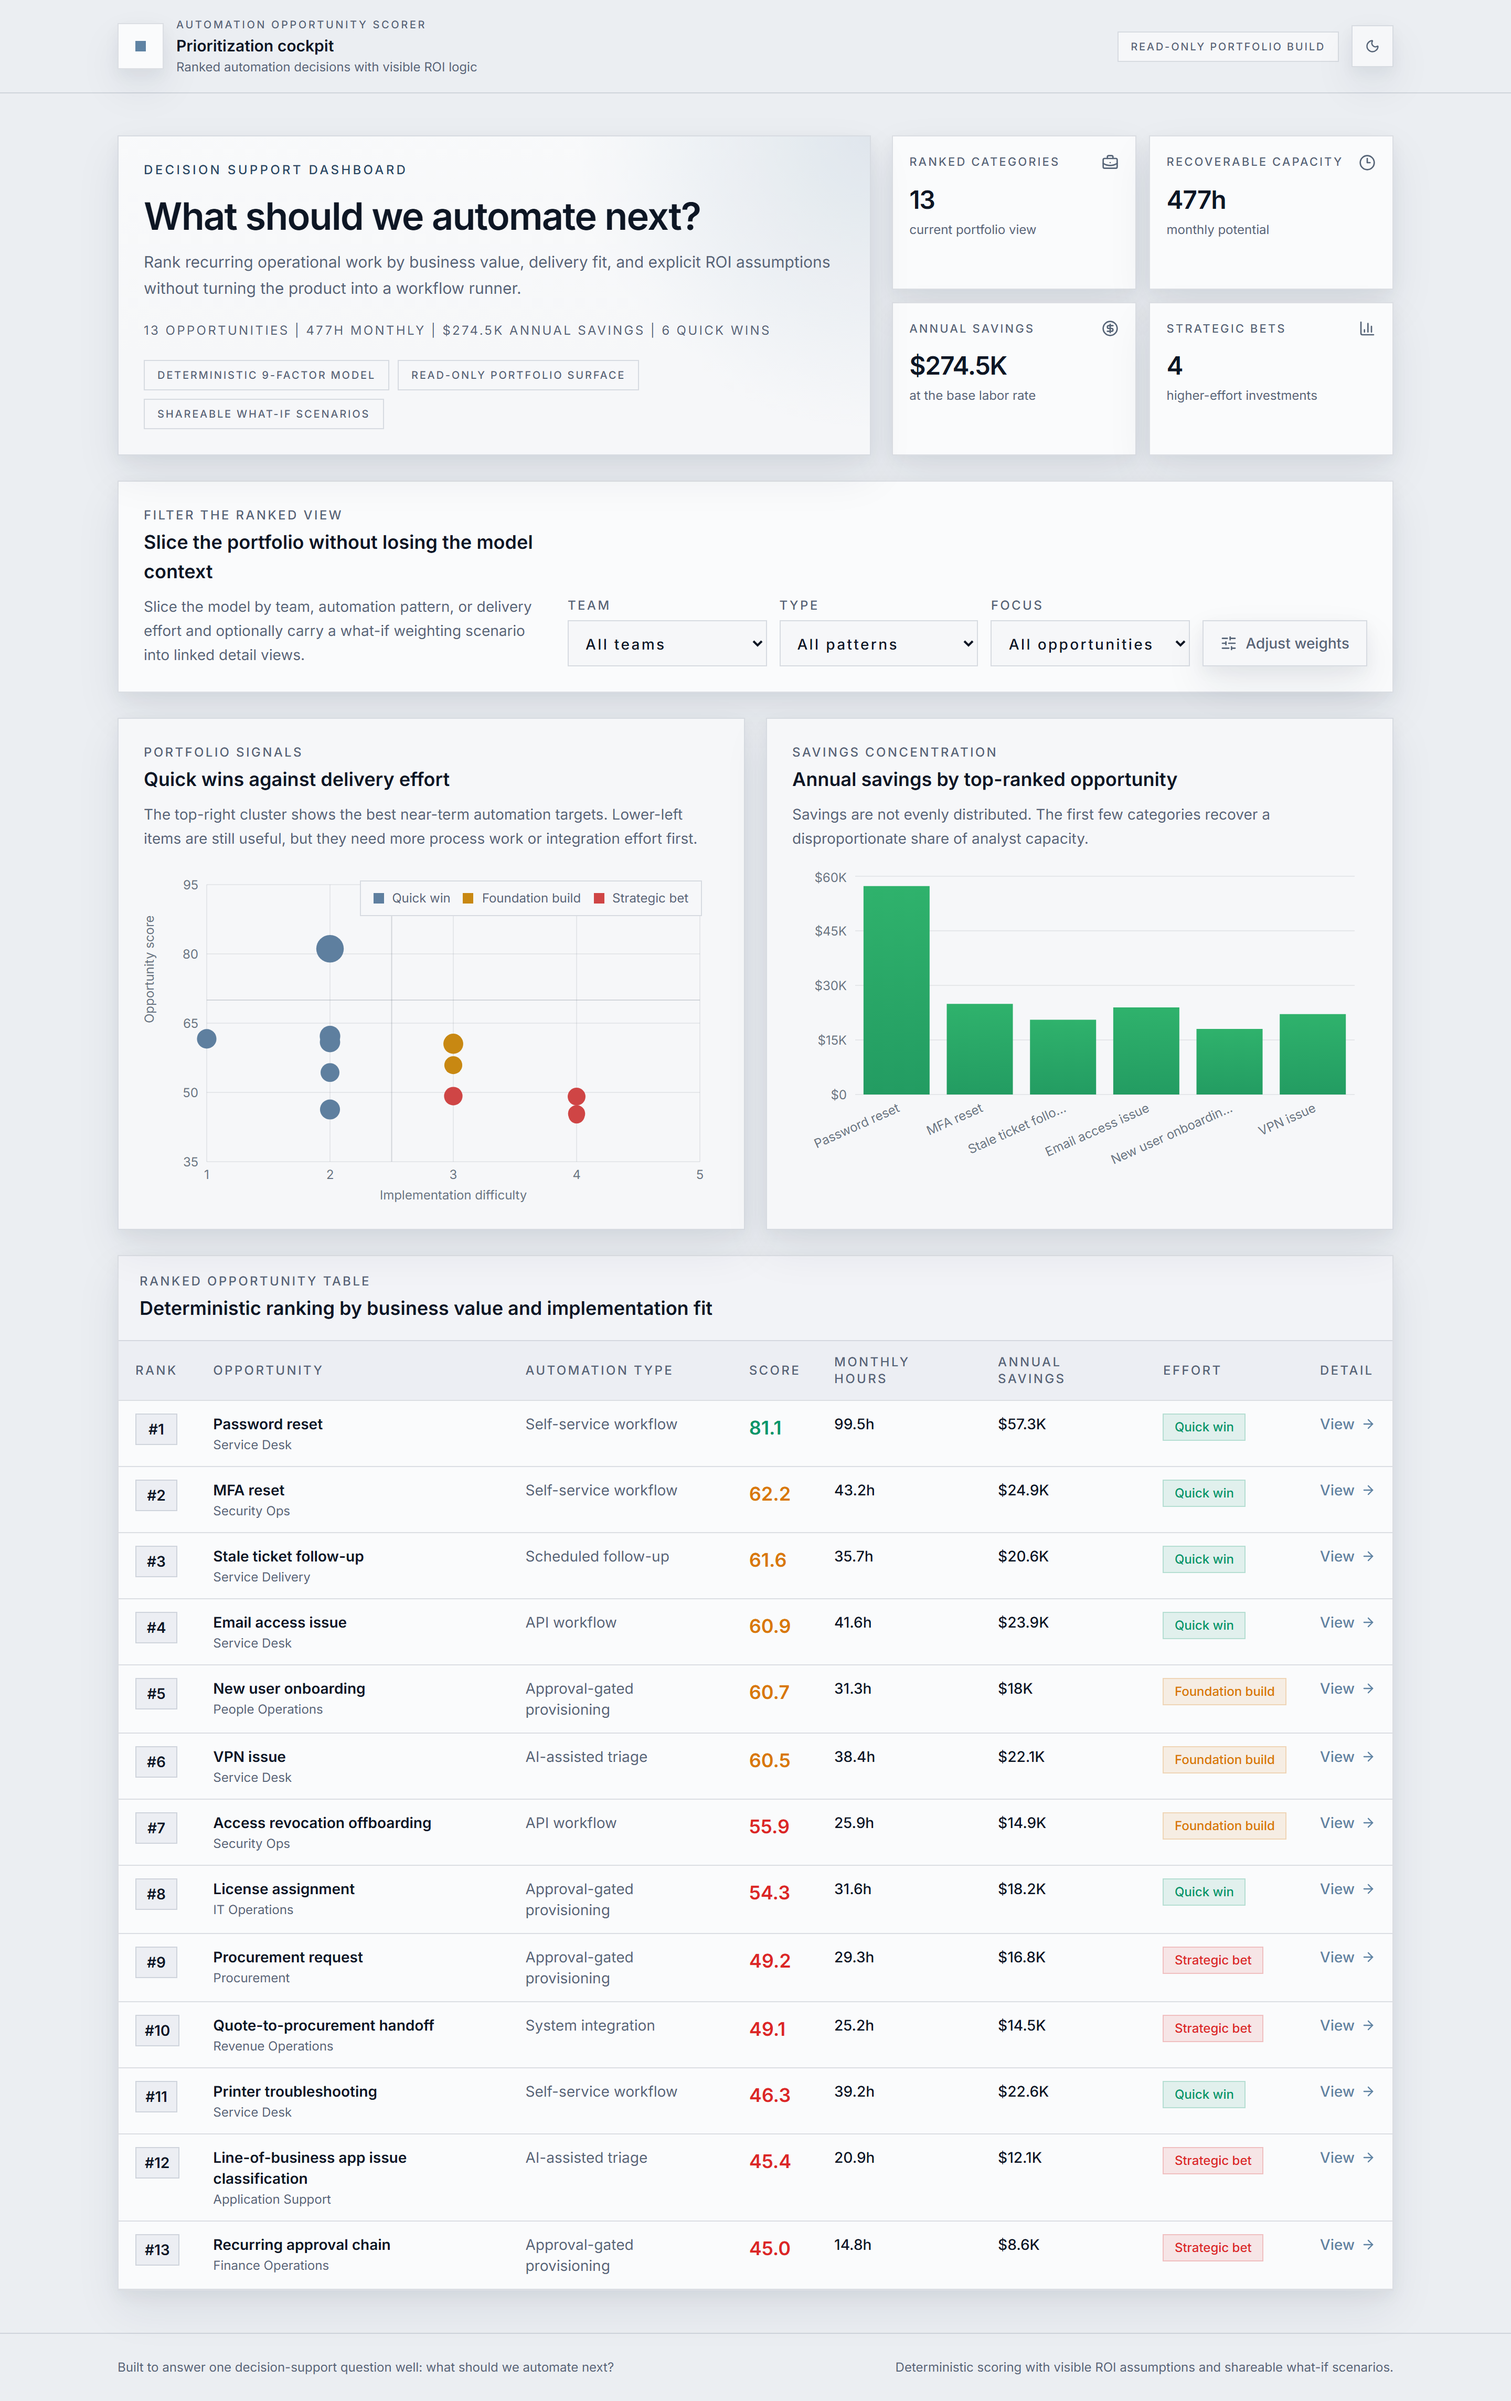
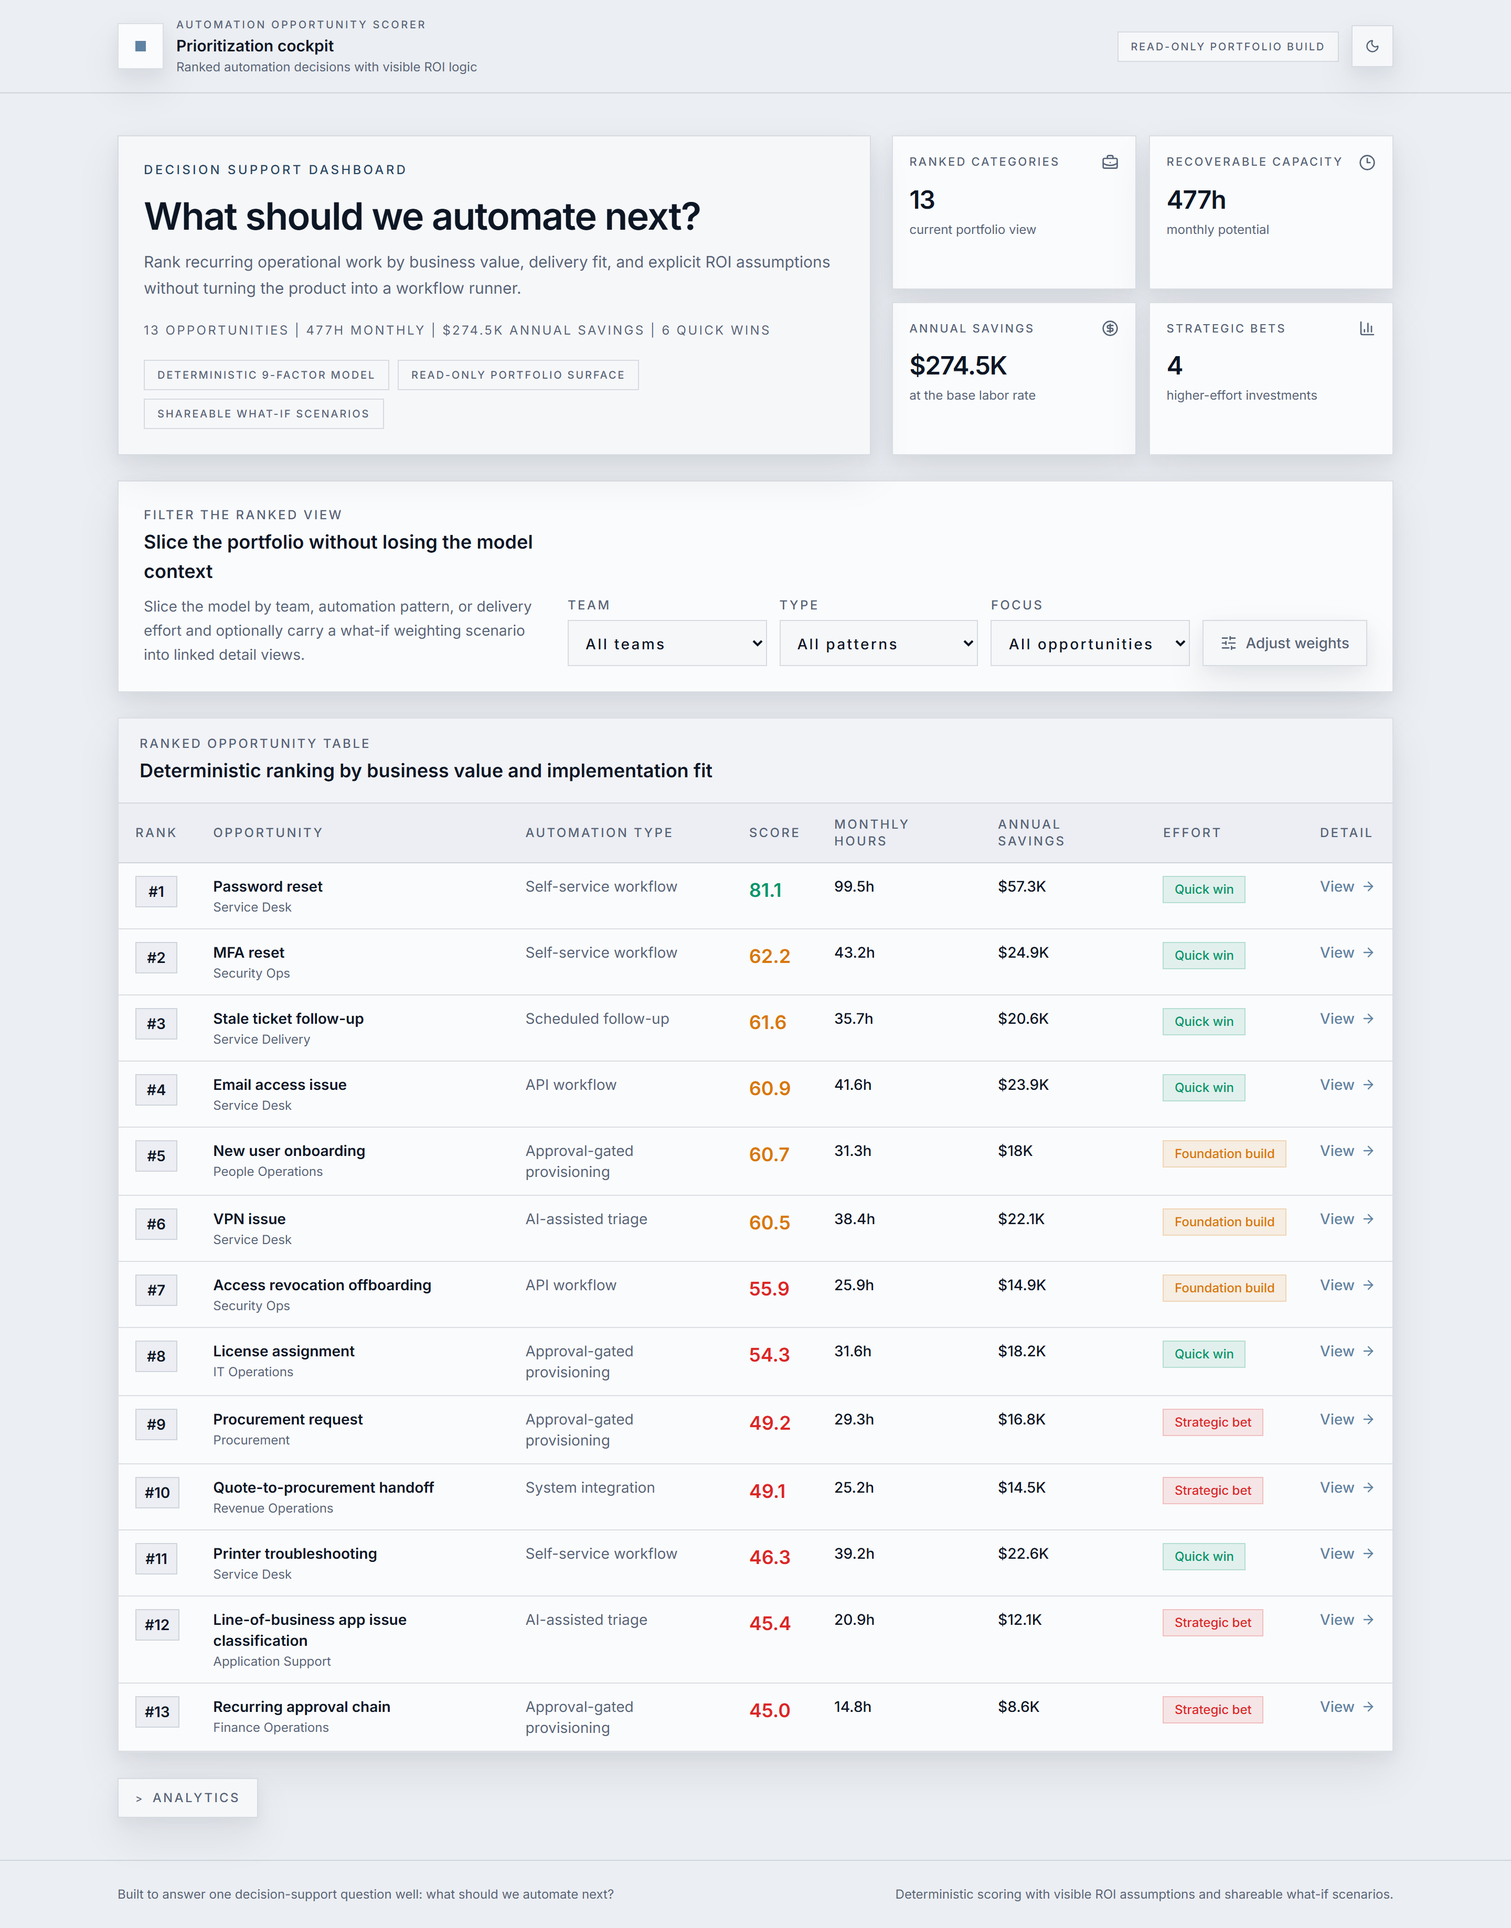
fix: move table above charts in collapsible section, solidify dark mode surfaces, remove unused ambient tokens

diff --git a/src/components/dashboard/dashboard-client.tsx b/src/components/dashboard/dashboard-client.tsx
@@ -241,45 +241,53 @@ export function DashboardClient({
 
           {data.opportunities.length > 0 ? (
             <>
-              <section className="grid gap-5 xl:grid-cols-2">
-                <SurfaceCard className="min-w-0">
-                  <p className="text-xs font-medium uppercase tracking-[0.14em] text-muted-foreground">
-                    Portfolio signals
-                  </p>
-                  <h2 className="mt-1 text-lg font-semibold text-foreground">
-                    Quick wins against delivery effort
-                  </h2>
-                  <p className="mt-2 max-w-xl text-sm leading-relaxed text-muted-foreground">
-                    The top-right cluster shows the best near-term automation
-                    targets. Lower-left items are still useful, but they need
-                    more process work or integration effort first.
-                  </p>
-                  <div className="mt-4 min-w-0">
-                    <ValueVsEffortChart data={data.charts.valueVsEffort} />
-                  </div>
-                </SurfaceCard>
-
-                <SurfaceCard className="min-w-0">
-                  <p className="text-xs font-medium uppercase tracking-[0.14em] text-muted-foreground">
-                    Savings concentration
-                  </p>
-                  <h2 className="mt-1 text-lg font-semibold text-foreground">
-                    Annual savings by top-ranked opportunity
-                  </h2>
-                  <p className="mt-2 max-w-xl text-sm leading-relaxed text-muted-foreground">
-                    Savings are not evenly distributed. The first few categories
-                    recover a disproportionate share of analyst capacity.
-                  </p>
-                  <div className="mt-4 min-w-0">
-                    <SavingsBarChart data={data.charts.savingsByOpportunity} />
-                  </div>
-                </SurfaceCard>
-              </section>
-
               <OpportunityTable
                 opportunities={data.opportunities}
                 detailQuery={detailQuery}
               />
+
+              <details className="group">
+                <summary className="inline-flex list-none cursor-pointer items-center gap-2 border border-line bg-surface px-4 py-2.5 text-xs font-medium uppercase tracking-[0.14em] text-muted-foreground shadow-card hover:text-foreground [&::-webkit-details-marker]:hidden">
+                  <span className="text-[10px] transition-transform group-open:rotate-90">
+                    {">"}
+                  </span>
+                  Analytics
+                </summary>
+                <div className="mt-5 grid gap-5 xl:grid-cols-2">
+                  <SurfaceCard className="min-w-0">
+                    <p className="text-xs font-medium uppercase tracking-[0.14em] text-muted-foreground">
+                      Portfolio signals
+                    </p>
+                    <h2 className="mt-1 text-lg font-semibold text-foreground">
+                      Quick wins against delivery effort
+                    </h2>
+                    <p className="mt-2 max-w-xl text-sm leading-relaxed text-muted-foreground">
+                      The top-right cluster shows the best near-term automation
+                      targets. Lower-left items are still useful, but they need
+                      more process work or integration effort first.
+                    </p>
+                    <div className="mt-4 min-w-0">
+                      <ValueVsEffortChart data={data.charts.valueVsEffort} />
+                    </div>
+                  </SurfaceCard>
+
+                  <SurfaceCard className="min-w-0">
+                    <p className="text-xs font-medium uppercase tracking-[0.14em] text-muted-foreground">
+                      Savings concentration
+                    </p>
+                    <h2 className="mt-1 text-lg font-semibold text-foreground">
+                      Annual savings by top-ranked opportunity
+                    </h2>
+                    <p className="mt-2 max-w-xl text-sm leading-relaxed text-muted-foreground">
+                      Savings are not evenly distributed. The first few categories
+                      recover a disproportionate share of analyst capacity.
+                    </p>
+                    <div className="mt-4 min-w-0">
+                      <SavingsBarChart data={data.charts.savingsByOpportunity} />
+                    </div>
+                  </SurfaceCard>
+                </div>
+              </details>
             </>
           ) : (
             <SurfaceCard className="text-center">

diff --git a/src/app/globals.css b/src/app/globals.css
@@ -13,8 +13,6 @@
   --accent: #5f83a3;
   --accent-soft: rgba(95, 131, 163, 0.12);
   --accent-strong: #294764;
-  --ambient-primary: rgba(95, 131, 163, 0.18);
-  --ambient-secondary: rgba(195, 146, 74, 0.1);
   --shadow-card-soft: 0 18px 40px rgba(20, 36, 58, 0.08), 0 5px 14px rgba(20, 36, 58, 0.05);
   --shadow-card-strong-base: 0 28px 60px rgba(20, 36, 58, 0.12), 0 10px 24px rgba(20, 36, 58, 0.08);
   --motion-fast: 150ms;
@@ -46,9 +44,9 @@
 [data-theme="dark"] {
   --background: #0c1118;
   --background-strong: #090d13;
-  --surface: rgba(18, 24, 34, 0.88);
-  --surface-subtle: rgba(14, 19, 28, 0.88);
-  --surface-elevated: rgba(22, 29, 40, 0.96);
+  --surface: #121822;
+  --surface-subtle: #0e131c;
+  --surface-elevated: #161d28;
   --foreground: #eef3f8;
   --muted-foreground: #93a0b2;
   --line: rgba(152, 167, 189, 0.18);
@@ -56,8 +54,6 @@
   --accent: #86a7c7;
   --accent-soft: rgba(134, 167, 199, 0.14);
   --accent-strong: #e2ebf5;
-  --ambient-primary: rgba(134, 167, 199, 0.18);
-  --ambient-secondary: rgba(239, 188, 65, 0.1);
   --shadow-card-soft: 0 20px 46px rgba(0, 0, 0, 0.28), 0 8px 18px rgba(0, 0, 0, 0.2);
   --shadow-card-strong-base: 0 28px 70px rgba(0, 0, 0, 0.34), 0 12px 28px rgba(0, 0, 0, 0.22);
   --semantic-success-bg: rgba(74, 222, 128, 0.12);
